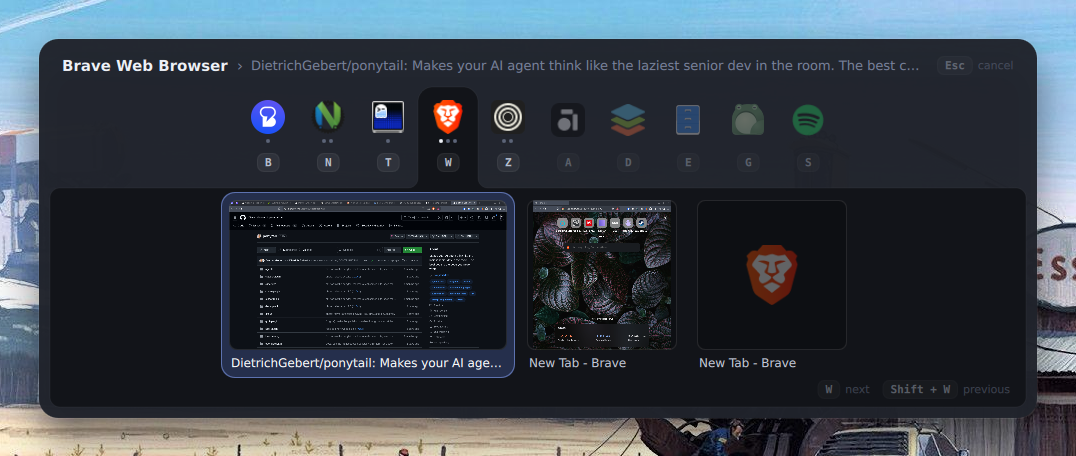
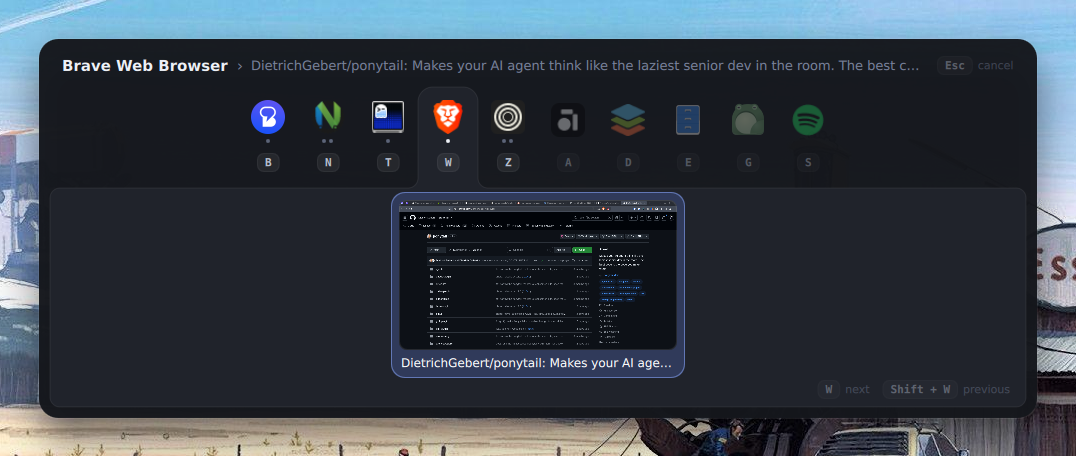
docs: retake the switcher screenshot

Changed region(s): [[0.184, 0.3991, 0.7361, 0.8289], [0.6747, 0.5219, 0.7667, 0.6754]]

diff --git a/README.md b/README.md
@@ -24,7 +24,7 @@ along). Start the daemon once, for example from your Hyprland startup configurat
 exec-once = raisin daemon
 ```
 
-![The switcher open on Brave: the applications in a bar, each with its key and a dot per open window, Brave in a tab joined to the sheet of its three windows, and the one it would switch to highlighted](docs/switcher.png)
+![The switcher open on Brave: the applications in a bar, each with its key and a dot per open window, and Brave in a tab joined to the sheet holding its window, highlighted as the one it would switch to](docs/switcher.png)
 
 It binds `Super` + a letter for every application in `[keys.apps]`, so adding another letter is a
 line of configuration — no compositor configuration to edit, and no restart.
